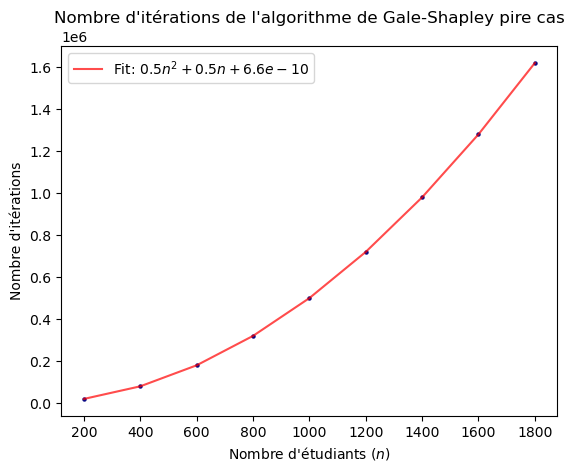
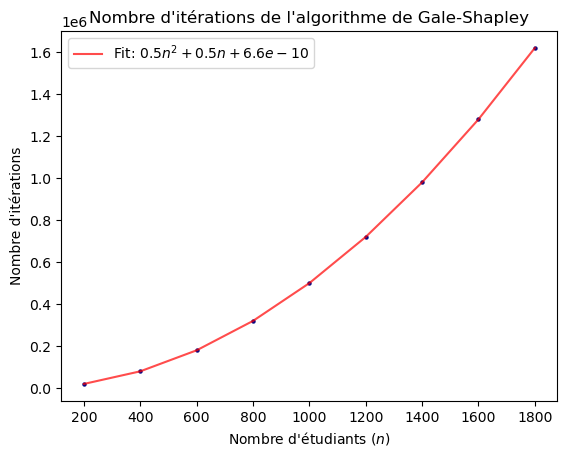
Final changes

diff --git a/rapport/rapport.tex b/rapport/rapport.tex
@@ -97,31 +97,26 @@ version la complexité de $\mathcal{O}(n^2)$.
 
 \begin{figure}
       \centering
-      \includegraphics[width=7cm]{img/temps_moy.png}
-      \includegraphics[width = 7cm]{img/it_moy.png}
-      \caption{Exécution de l'algorithme Gale-Shapley pour des données aléatoires.}
-      \label{fig:moy}
+      \includegraphics[width=7cm]{img/t_fix.png}
+      \includegraphics[width=7cm]{img/it_fix.png}
+      \caption{Exécution de l'algorithme Gale-Shapley avec 10 parcours.}
+      \label{fig:fix}
 \end{figure}
-
 La fiabilité de l'implémentation a été vérifiée par un jeu de tests via la bibliothèque 
 \texttt{unittest}. Divers scénarios d'affectation ont été élaborés manuellement et stockés dans 
 un fichier \texttt{JSON} incluant les résultats attendus. Ces tests couvrent l'algorithme 
 de Gale-Shapley (variantes étudiant et parcours) ainsi que la fonction de détection des paires instables.
 
 Pour confronter les performances observées à la complexité théorique, nous avons mesuré le temps 
-d'exécution et le nombre d'itérations pour des instances allant de 200 à 2000 agents.
+d'exécution et le nombre d'itérations pour des instances allant de 200 à 2000 étudiants. 
 
-Dans un premier temps, l'algorithme a été testé sur des matrices de préférences aléatoires et uniformes. 
-Les résultats dans la Figure \ref{fig:moy} montrent un temps d'exécution quadratique, alors que le nombre 
-d'itérations suit une croissance plus lente. Cette observation est cohérente avec les travaux de \cite{wil72}, 
-qui démontrent que le nombre moyen de propositions est en $\mathcal{O}(n \log n)$ sous l'hypothèse de 
-préférences indépendantes et uniformes. La divergence entre le temps et les itérations s'explique par la 
-phase de pré-calcul, dont la complexité est en $\mathcal{O}(n \times m)$ quel que soit le contenu des préférences.
-
-Dans un second temps, nous avons soumis l'implémentation à un scénario de pire cas (Figure \ref{fig:pire}). 
-Dans cette configuration, le temps de calcul et le nombre d'itérations suivent tous deux 
-un comportement quadratique, confirmant ainsi la borne supérieure théorique de l'algorithme.
-
+\begin{figure}
+      \centering
+      \includegraphics[width=7cm]{img/temps_moy.png}
+      \includegraphics[width = 7cm]{img/it_moy.png}
+      \caption{Exécution de l'algorithme Gale-Shapley pour des données aléatoires.}
+      \label{fig:moy}
+\end{figure}
 \begin{figure}
       \centering
       \includegraphics[width=7cm]{img/temps_pire_cas.png}
@@ -129,6 +124,27 @@ un comportement quadratique, confirmant ainsi la borne supérieure théorique de
       \caption{Exécution de l'algorithme Gale-Shapley avec des données forçant le pire cas.}
       \label{fig:pire}
 \end{figure}
+
+L'algorithme a d'abord été évalué sur des matrices de préférences aléatoires et uniformes. 
+En fixant initialement le nombre de parcours à $m=10$, nous observons que le temps d'exécution 
+et le nombre d'itérations adoptent un comportement quasi-linéaire (Figure \ref{fig:fix}). 
+Ce résultat est cohérent avec la complexité théorique en $\mathcal{O}(n \times m \log k)$, 
+qui devient $\mathcal{O}(n \log n)$ lorsque $m$ est constante.  
+
+Afin d'étudier le comportement asymptotique de l'algorithme, nous avons ensuite fait varier 
+simultanément le nombre d'étudiants et de parcours en fixant $m=n$. Les résultats présentés en 
+Figure \ref{fig:moy} confirment un temps d'exécution quadratique. Toutefois, le nombre 
+d'itérations croît plus lentement que prévu. Cette observation corrobore les travaux de \cite{wil72}, 
+qui démontrent que, sous l'hypothèse de préférences indépendantes et uniformes, le nombre 
+moyen de propositions est en $\mathcal{O}(n \log n)$. La divergence observée entre le temps 
+d'exécution et le nombre d'itérations s'explique par la phase de pré-calcul des rangs, dont 
+la complexité reste structurellement en $\mathcal{O}(n \times m)$ indépendamment de la 
+distribution des préférences.  
+
+Finalement, nous avons soumis l'implémentation à un scénario de pire cas (Figure \ref{fig:pire}). 
+Dans cette configuration, le temps de calcul et le nombre d'itérations suivent tous deux 
+un comportement quadratique, confirmant ainsi la borne supérieure théorique de l'algorithme.
+
 
 
 \section{Programmation Linéaire}
@@ -178,7 +194,6 @@ maximiser l'efficacité globale en optimisant la somme des utilités des étudia
     & \sum_{i=1}^{n} x_{i,j} \le C_j, & \forall j \in \{1, \dots, m\} \\
 \end{align*}
 
-
 \subsection{Optimisation sous contrainte de rang}
 
 Cette variante maximise l'utilité totale tout en garantissant à chaque étudiant une affectation 
@@ -195,6 +210,8 @@ parmi ses $k$ premiers vœux.
     & \sum_{i=1}^{n} x_{i,j} \le C_j, & \forall j \in \{1, \dots, m\} \\
     & \sum_{j=1}^{m} c_{i,j} x_{i,j} \leq k, & \forall i \in \{1, \dots, n\} \\
 \end{align*}
+
+Dans nos tests, cette affectation était possible uniquement pour les $k\geq 5$
 
 \section{Analyse comparative}
 
@@ -247,9 +264,17 @@ Afin d'évaluer les différentes méthodes étudiées, nous les avons appliquée
 Les affectations obtenues sont consignées dans le Tableau \ref{tab:aff}.
 
 Nous avons analysé ces résultats selon des indicateurs de stabilité (nombre de paires instables),
- d'équité (utilités maximale et moyenne des étudiants) et d'efficacité (somme totale des utilités). 
- Le Tableau \ref{tab:ut} synthétise ces mesures, permettant ainsi d'apprécier les compromis entre stabilité, 
- satisfaction globale et équité propres à chaque modèle.
+d'équité (utilité minimale des étudiants) et d'efficacité (somme totale des utilités). 
+Le Tableau \ref{tab:ut} synthétise ces mesures, permettant ainsi d'apprécier les compromis entre stabilité, 
+satisfaction globale et équité propres à chaque modèle.
+
+Nous pouvons constater que les deux variantes de l'algorithme de Gale-Shapley aboutissent à la même affectation, 
+démontrant que le mariage stable est unique pour cette instance. Le programme linéaire maximisant l'utilité totale 
+atteint la meilleure efficacité globale au détriment de la stabilité et de l'équité, puisqu'au moins un étudiant 
+obtient son pire choix. À l'inverse, l'approche égalitariste protège les étudiants les plus défavorisés mais 
+s'accompagne d'une chute de l'efficacité et de la plus forte instabilité. Dans ce contexte, l'optimisation sous 
+contrainte de rang se révèle être un excellent compromis. Elle garantit un niveau de satisfaction minimal et limite 
+les paires instables tout en offrant une efficacité globale presque équivalente à celle du mariage stable.
 
 \bibliographystyle{agsm}
 \bibliography{references}

diff --git a/GaleShapley.py b/GaleShapley.py
@@ -173,11 +173,23 @@ def paires_instables(spe, etu, affectations_etu):
 
 ## TME 2
 
-def random_etu(n):
+def random_etu(n,m):
     
     res = []
     
     for _ in range(n):
+        
+        pref = np.arange(m)
+        np.random.shuffle(pref)
+        res.append(list(pref))
+
+    return res
+
+def random_spe(n,m):
+    
+    res = []
+    
+    for _ in range(m):
         
         pref = np.arange(n)
         np.random.shuffle(pref)
@@ -185,32 +197,23 @@ def random_etu(n):
 
     return res
 
-def random_spe(n):
-    
-    res = []
-    
-    for _ in range(n):
-        
-        pref = np.arange(n)
-        np.random.shuffle(pref)
-        res.append(list(pref))
+def pire_cas_etu(n,m):
+    return [list(range(m)) for _ in range(n)]
 
-    return res
+def pire_cas_spe(n,m):
+    return [list(range(n))[::-1] for _ in range(m)]
 
-def pire_cas_etu(n):
-    return [list(range(n)) for _ in range(n)]
-
-def pire_cas_spe(n):
-    return [list(range(n))[::-1] for _ in range(n)]
-
-def mesurer_temps(start, stop , step, cote_etu = True, pire_cas = False):
+def mesurer_temps(start, stop , step, cote_etu = True, pire_cas = False, m_fixed = False):
 
     temps = []
     iterations = []
 
     for n in range(start, stop, step):
-        
-        cap = [1]*n
+
+        m = 10 if m_fixed else n
+
+        # On suppose n multiple de m        
+        cap = [int(n/m)]*n
 
         temps_n = []
         iterations_n = []
@@ -218,11 +221,11 @@ def mesurer_temps(start, stop , step, cote_etu = True, pire_cas = False):
         for _ in range(10):
 
             if pire_cas:
-                etu = pire_cas_etu(n)
-                spe = pire_cas_spe(n)
+                etu = pire_cas_etu(n,m)
+                spe = pire_cas_spe(n,m)
             else:
-                etu = random_etu(n)
-                spe = random_spe(n)
+                etu = random_etu(n,m)
+                spe = random_spe(n,m)
             start_t = time.time()
             if cote_etu:
                 s, it = GaleShapleyCoteEtudiant(etu, spe, cap, iterations=True)
@@ -242,8 +245,6 @@ def mesurer_temps(start, stop , step, cote_etu = True, pire_cas = False):
     it_df = pd.DataFrame(iterations, index=list(range(start, stop, step)))
     return t_df, it_df
 
-print(GaleShapleyCoteEtudiant())
-print(GaleShapleyCoteParcours())
 
 
 